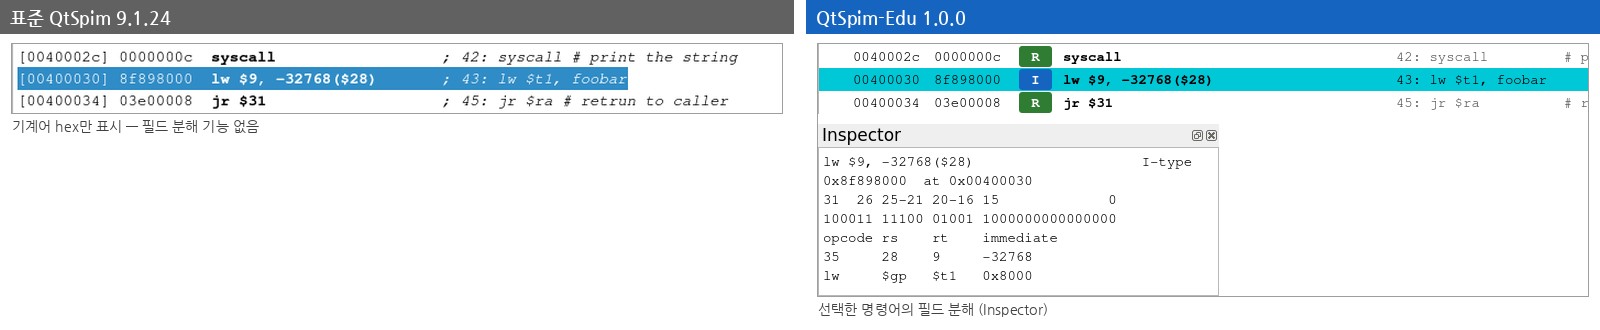
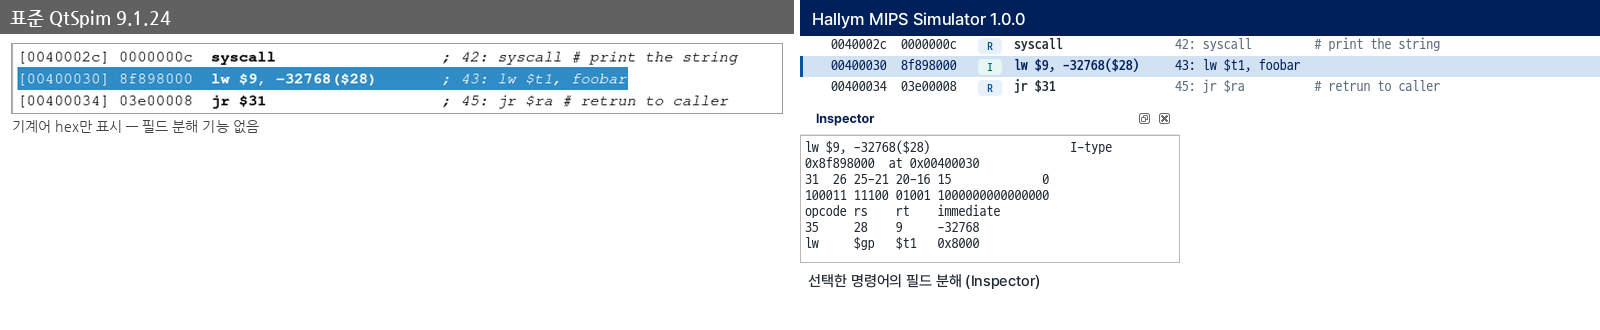
[H2] docs: guides and README renamed, ARCHITECTURE 51-58 and section 19, tokens.md, comparison images, captures
The comparison images keep the standard-QtSpim halves captured for 1.0.0
and re-capture the right halves (tools/make-compare-images.py).

Changed region(s): [[0.5, 0.0, 1.0, 0.9697], [0.6562, 0.3939, 0.7812, 0.4545], [0.7188, 0.4848, 0.75, 0.5152]]

diff --git a/tools/make-compare-images.py b/tools/make-compare-images.py
@@ -1,0 +1,131 @@
+#!/usr/bin/env python3
+"""Rebuild docs/images/compare/*.png (and en/) for the current build.
+
+    tools/make-compare-images.py [-b BUILD_DIR]
+
+Each image is standard QtSpim 9.1.24 on the left and this program on the
+right, same file (helloworld.s), same steps, 1600x900 window.  The left halves
+are the captures made for QtSpim-Edu 1.0.0 (commit 8f61a4d: vanilla through a
+probe patched into a scratch worktree, environment USER=student); vanilla has
+not changed, so they are reused from git.  Only the right halves are captured
+here, with the CONFIG+=edu_devtools build.  Needs Pillow.
+"""
+import argparse
+import io
+import os
+import subprocess
+import sys
+import tempfile
+
+from PIL import Image, ImageDraw, ImageFont
+
+REPO = os.path.abspath(os.path.join(os.path.dirname(__file__), ".."))
+LEFT_REV = "v1.0.1"                 # the images with the old right halves
+FONT = os.path.join(REPO, "QtSpim", "edu", "theme", "fonts", "Pretendard-Medium.otf")
+NAVY, GRAY, WHITE = "#00205B", "#5A5A5A", "#FFFFFF"
+BAR = 36
+VERSION = None
+
+
+def version():
+    for line in open(os.path.join(REPO, "QtSpim", "edu", "edu_version.h")):
+        if line.startswith("#define EDU_VERSION "):
+            return line.split('"')[1]
+    sys.exit("EDU_VERSION not found")
+
+
+def old_image(name):
+    data = subprocess.check_output(["git", "-C", REPO, "show",
+                                    "%s:docs/images/compare/%s" % (LEFT_REV, name)])
+    return Image.open(io.BytesIO(data)).convert("RGB")
+
+
+def capture(app, out, args, env):
+    cmd = [app, "--window-size", "1600x900"] + args
+    subprocess.run(cmd, check=True, env=env, stdout=subprocess.DEVNULL,
+                   stderr=subprocess.DEVNULL)
+
+
+def label(width, text, colour):
+    bar = Image.new("RGB", (width, BAR), colour)
+    draw = ImageDraw.Draw(bar)
+    draw.text((12, 8), text, fill=WHITE, font=ImageFont.truetype(FONT, 17))
+    return bar
+
+
+def compose(left, right, left_text, right_text):
+    # Same height as the old image; the right half keeps the old width.
+    half = left.width // 2
+    right = right.convert("RGB")
+    if right.width > half:
+        right = right.crop((0, 0, half, right.height))
+    canvas = Image.new("RGB", (left.width, left.height), WHITE)
+    canvas.paste(left.crop((0, 0, half, left.height)), (0, 0))
+    panel = Image.new("RGB", (half, left.height - BAR), WHITE)
+    panel.paste(right.crop((0, 0, min(right.width, half), min(right.height, left.height - BAR))), (0, 0))
+    canvas.paste(label(half, right_text, NAVY), (half, 0))
+    canvas.paste(panel, (half, BAR))
+    # The old left label (Korean or English) is kept as it was.
+    del left_text
+    return canvas
+
+
+def main():
+    ap = argparse.ArgumentParser()
+    ap.add_argument("-b", default=os.path.join(REPO, "build"))
+    opts = ap.parse_args()
+    app = os.path.join(opts.b, "HallymMIPS")
+    if not os.access(app, os.X_OK):
+        sys.exit("no executable at " + app + " (CONFIG+=edu_devtools build)")
+    ver = version()
+    work = tempfile.mkdtemp(prefix="hallym-compare-")
+    env = dict(os.environ, QT_QPA_PLATFORM="offscreen", USER="student",
+               XDG_CONFIG_HOME=os.path.join(work, "config"),
+               HOME="/nonexistent")
+    hello = os.path.join(REPO, "helloworld.s")
+    errors = os.path.join(REPO, "tests", "samples", "editor-errors.s")
+    shots = {
+        "01-registers": (["--load", hello, "--run", "--capture", "intregs"], None),
+        "02-text": (["--load", hello, "--steps", "9", "--capture", "text"], None),
+        "03-inspector": (["--load", hello, "--steps", "9", "--select-instruction", "00400030",
+                          "--capture", "text", "--out", os.path.join(work, "03-text.png"),
+                          "--capture", "inspector"], "inspector"),
+        "04-data": (["--load", hello, "--raise", "data", "--capture", "data"], None),
+        "05-editor": (["--editor-open", errors, "--assemble", "--capture", "editor"], None),
+    }
+    for lang, right_text in (("", "Hallym MIPS Simulator " + ver),
+                             ("en", "Hallym MIPS Simulator " + ver)):
+        for name, (args, kind) in shots.items():
+            out = os.path.join(work, name + ".png")
+            capture(app, out, args + ["--out", out], env)
+            right = Image.open(out)
+            if kind == "inspector":
+                # Three Text rows around the selected instruction, then the
+                # inspector, then a caption -- as the 1.0.0 image was laid out.
+                text = Image.open(os.path.join(work, "03-text.png")).convert("RGB")
+                # The selected row is the one painted in the selection tint
+                # (tokens.h kBlueTint2); take it with a row above and below.
+                tint = (0xD3, 0xE2, 0xF3)
+                selected = next(y for y in range(text.height)
+                                if text.getpixel((text.width // 2, y)) == tint)
+                top = max(0, selected - 20)
+                rows = text.crop((0, top, text.width, top + 60))
+                insp = Image.open(out).convert("RGB")
+                right = Image.new("RGB", (text.width, 66 + insp.height + 40), WHITE)
+                right.paste(rows, (0, 0))
+                right.paste(insp, (0, 66))
+                draw = ImageDraw.Draw(right)
+                caption = ("Fields of the selected instruction (Inspector)" if lang
+                           else "선택한 명령어의 필드 분해 (Inspector)")
+                draw.text((8, 66 + insp.height + 8), caption, fill="#1F2933",
+                          font=ImageFont.truetype(FONT, 15))
+            old_name = ("en/" if lang else "") + name + ".png"
+            left = old_image(old_name)
+            image = compose(left, right, None, right_text)
+            dest = os.path.join(REPO, "docs", "images", "compare", old_name)
+            image.save(dest)
+            print("wrote", os.path.relpath(dest, REPO), image.size)
+
+
+if __name__ == "__main__":
+    main()

diff --git a/README.md b/README.md
@@ -1,10 +1,12 @@
-# QtSpim-Edu
+# Hallym MIPS Simulator
 
 An educational GUI extension of [SPIM / QtSpim](https://spimsimulator.sourceforge.net/) 9.1.24,
-the MIPS32 simulator by James R. Larus. The simulator core (`CPU/`) is
+the MIPS32 simulator by James R. Larus, for the computer architecture courses
+of Hallym University. The simulator core (`CPU/`) is
 **unmodified**: programs assemble and run exactly as they do in standard
 QtSpim, and the test suite checks that on every push. Only the interface is
-new.
+new, and in this edition it carries the university's identity: its colours,
+fonts and marks (`docs/design/tokens.md`).
 
 ## What's different
 
@@ -16,13 +18,13 @@ identical; only what you see changes.**
 and decimal side by side, and everything the run changed in red; upstream is
 one flat list in one base at a time.
 
-![Registers: standard QtSpim and QtSpim-Edu side by side](docs/images/compare/en/01-registers.png)
+![Registers: standard QtSpim and Hallym MIPS Simulator side by side](docs/images/compare/en/01-registers.png)
 
 **Text** — columns instead of a text dump: a breakpoint column, the machine
 word, a type badge (R / I / J …), the instruction, the source line. The kernel
 segment is one folded row until you want it.
 
-![Text segment: standard QtSpim and QtSpim-Edu side by side](docs/images/compare/en/02-text.png)
+![Text segment: standard QtSpim and Hallym MIPS Simulator side by side](docs/images/compare/en/02-text.png)
 
 **Instruction fields** — select an instruction and the inspector splits the
 word into opcode, rs, rt, immediate (or rd, shamt, funct), names the registers
@@ -36,7 +38,7 @@ the word `$sp` points to, words / halves / bytes. The strings at the top of the
 stack (environment variables and paths, i.e. your user name) are folded away
 instead of being the first thing in every screenshot.
 
-![Data segment: standard QtSpim and QtSpim-Edu side by side](docs/images/compare/en/04-data.png)
+![Data segment: standard QtSpim and Hallym MIPS Simulator side by side](docs/images/compare/en/04-data.png)
 
 **Editor** — write, press Ctrl+S to save *and* assemble, get the errors as a
 list with markers on their lines. Standard QtSpim has no editor.
@@ -49,16 +51,16 @@ program installs and runs next to standard QtSpim without touching it.
 
 <details><summary>The whole window</summary>
 
-![QtSpim-Edu main window](docs/images/qtspim-edu.png)
+![Hallym MIPS Simulator main window](docs/images/main-window.png)
 
 </details>
 
 ## Download
 
-**[Latest release](https://github.com/ars2323/qtspim-edu/releases/latest)** (Windows 64-bit):
+**[Latest release](https://github.com/ars2323/hallym-mips-simulator/releases/latest)** (Windows 64-bit):
 
-- `QtSpimEdu-<version>-win64.zip` — recommended. Unzip, run `QtSpimEdu.exe`. No administrator rights needed.
-- `QtSpimEdu-<version>-win64.msi` — installer (Program Files, Start menu).
+- `HallymMIPS-<version>-win64.zip` — recommended. Unzip, run `HallymMIPS.exe`. No administrator rights needed.
+- `HallymMIPS-<version>-win64.msi` — installer (Program Files, Start menu).
 - User guide: [한국어](docs/GUIDE-ko.md) · [English](docs/GUIDE.md) (PDFs on the release page)
 
 The program is not code-signed; on the SmartScreen prompt choose *More info → Run anyway*.
@@ -78,6 +80,8 @@ instruction decoder and the file loader against the real SPIM core),
 `tools/check-menu-load.sh --compare-vanilla`, `tools/check-editor.sh`.
 `docs/ARCHITECTURE.md` (in Korean) describes the code and lists everything that
 intentionally differs from upstream; `docs/FUTURE.md` lists what is not done.
+`docs/design/tokens.md` is the design system (colours from the university's
+UI manual, fonts, spacing); `QtSpim/edu/theme/` implements it.
 
 ## License
 
@@ -87,4 +91,10 @@ is kept as it is. The changes in this repository are offered under the same
 terms. The program links to the Qt library, which is distributed under the GNU
 Lesser General Public License version 3 and version 2.1.
 
-This is a modified version and is not endorsed by the original author.
+The bundled fonts Pretendard and D2Coding are under the SIL Open Font License
+1.1 and the Lucide icons under the ISC license (Help > About > License). The
+university symbol, logotype, emblem and signature belong to Hallym University
+and are used under its UI regulations for non-commercial university purposes.
+
+This is a modified version of QtSpim (through [QtSpim-Edu](https://github.com/ars2323/qtspim-edu),
+whose history this repository continues) and is not endorsed by the original author.

diff --git a/docs/GUIDE.md b/docs/GUIDE.md
@@ -1,16 +1,16 @@
-# QtSpim-Edu 1.0.1 — User Guide
+# Hallym MIPS Simulator 1.0.0 — User Guide
 
-QtSpim-Edu is an educational build of the MIPS simulator **QtSpim 9.1.24 with a
+Hallym MIPS Simulator is the Hallym University build of the MIPS simulator **QtSpim 9.1.24 with a
 new interface only**. The simulator itself (assembler and execution) is the
 unmodified original, so **the same program assembles the same way and produces
 the same results as in standard QtSpim.** You can check your work in either.
 
 ## 1. Installing
 
-1. Unzip `QtSpimEdu-1.0.1-win64.zip` anywhere. (There is an MSI installer too,
+1. Unzip `HallymMIPS-1.0.0-win64.zip` anywhere. (There is an MSI installer too,
    but the zip is recommended: no administrator rights, and removing it is
    deleting the folder.)
-2. Run `QtSpimEdu.exe`.
+2. Run `HallymMIPS.exe`.
 3. If "Windows protected your PC" appears, click **More info → Run anyway**. The
    program is not code-signed.
 
@@ -29,7 +29,7 @@ settings location differ, so neither affects the other.
 3. **F5** runs, **F10** single-steps. Click the BP cell of a Text row to set a
    breakpoint.
 
-A yellow strip **"Source changed — save (Ctrl+S) to assemble"** above the Text
+An amber strip **"Source changed — save (Ctrl+S) to assemble"** above the Text
 and Data tabs means that what you are looking at is not the code in the editor.
 Press Ctrl+S or click the strip. You also see it right after starting the
 program: the last file is reopened, but nothing is assembled for you.
@@ -38,7 +38,7 @@ program: the last file is reopened, but nothing is assembled for you.
 
 In the pictures both programs were given **the same file (helloworld.s), the
 same steps and the same window size**: standard QtSpim 9.1.24 on the left,
-QtSpim-Edu on the right. The values are the same; only the presentation
+Hallym MIPS Simulator on the right. The values are the same; only the presentation
 differs.
 
 **Registers** — after Run. Grouped by role (Arguments, Temporaries, Saved …),
@@ -76,7 +76,7 @@ as a list, with a red marker on each line, instead of one dialog each.
 
 Also: with a program already loaded, **File > Load File** asks
 "**Reinitialize and load / Add to current program / Cancel**" (standard QtSpim
-loads on top without asking). A yellow status-bar badge shows while a setting
+loads on top without asking). An amber status-bar badge shows while a setting
 such as Bare Machine is on, and the version is at the right end of the status
 bar.
 
@@ -92,7 +92,7 @@ bar.
   Ctrl+S).
 - **With Simulator > Settings > Bare Machine on,** pseudo instructions such as
   `li`, `la` and `move` are all syntax errors. The setting survives a restart.
-  If the status bar shows a yellow "Bare Machine", turn it off.
+  If the status bar shows an amber "Bare Machine", turn it off.
 - Non-ASCII folder names are fine when the Windows system language covers them
   (Korean names on a Korean Windows). Otherwise the simulator cannot open the
   path; the program says so and skips the load. Move the file to an ASCII path.
@@ -126,6 +126,9 @@ bar.
   grows and shrinks with what is selected; once dragged, the height is kept
   (Window > Tile gives it back).
 
-Questions and bugs: <https://github.com/ars2323/qtspim-edu/issues>
-SPIM is the work of James R. Larus, distributed under a BSD license. QtSpim-Edu
-is an unofficial modification and is not affiliated with the SPIM project.
+Questions and bugs: <https://github.com/ars2323/hallym-mips-simulator/issues>
+SPIM is the work of James R. Larus, distributed under a BSD license. Hallym MIPS
+Simulator is a modified version of QtSpim (through QtSpim-Edu) and is not
+affiliated with the SPIM project. The bundled fonts Pretendard and D2Coding are
+under the SIL Open Font License 1.1 and the Lucide icons under the ISC license
+(Help > About > License).

diff --git a/PLAN.md b/PLAN.md
@@ -281,8 +281,8 @@ QtSpim-Edu 1.0.1(`v1.0.1`)에서 갈라진 저장소 `ars2323/hallym-mips-simula
 - [x] 시안 A "Campus" / B "Studio" 캡처 각 3장 + 1366×768 → `docs/design/mockups/`
 - [x] 사람 체크포인트: A 선택 + §7 결정 (2026-09-22)
 
-### H2. 시안 A 구현
-- 코드 색 전면 교체(tokens.md §6 목록 전부) — 위 결정 표. QSS가 안 먹는 위젯은 `applyPanelFont()`/`setPalette` 경로로
+### H2. 시안 A 구현 — 사람 체크포인트 대기
+- [x] 코드 색 전면 교체(tokens.md §6 목록 전부) — 위 결정 표. QSS가 안 먹는 위젯은 `applyPanelFont()`/`setPalette` 경로로
 - QSS 한 파일(`QtSpim/edu/theme/light.qss`) + 토큰 헤더(`theme/tokens.h`). 하드코딩 색·글꼴 리터럴 전부 토큰으로; grep으로 잔여 `QColor(`/`QFont(`/`setStyleSheet(` 리터럴 0건
 - 브랜딩: 앱 아이콘(16·32·48·256 .ico/.png/.icns), 창 제목, 작업표시줄, 스플래시(시그니처, 1.2초, 클릭 시 닫힘), About(엠블럼 A + 로고타입 + "Hallym MIPS Simulator 1.0.0" + License 탭), 설정 저장소 `HallymMIPS/HallymMIPS`, 실행 파일 `HallymMIPS`, MSI ProductName/UpgradeCode 새로, 설치 경로 `Program Files\Hallym MIPS Simulator`
 - 인쇄·로그 저장은 원본과 바이트 동일 유지(`regress.sh`)
